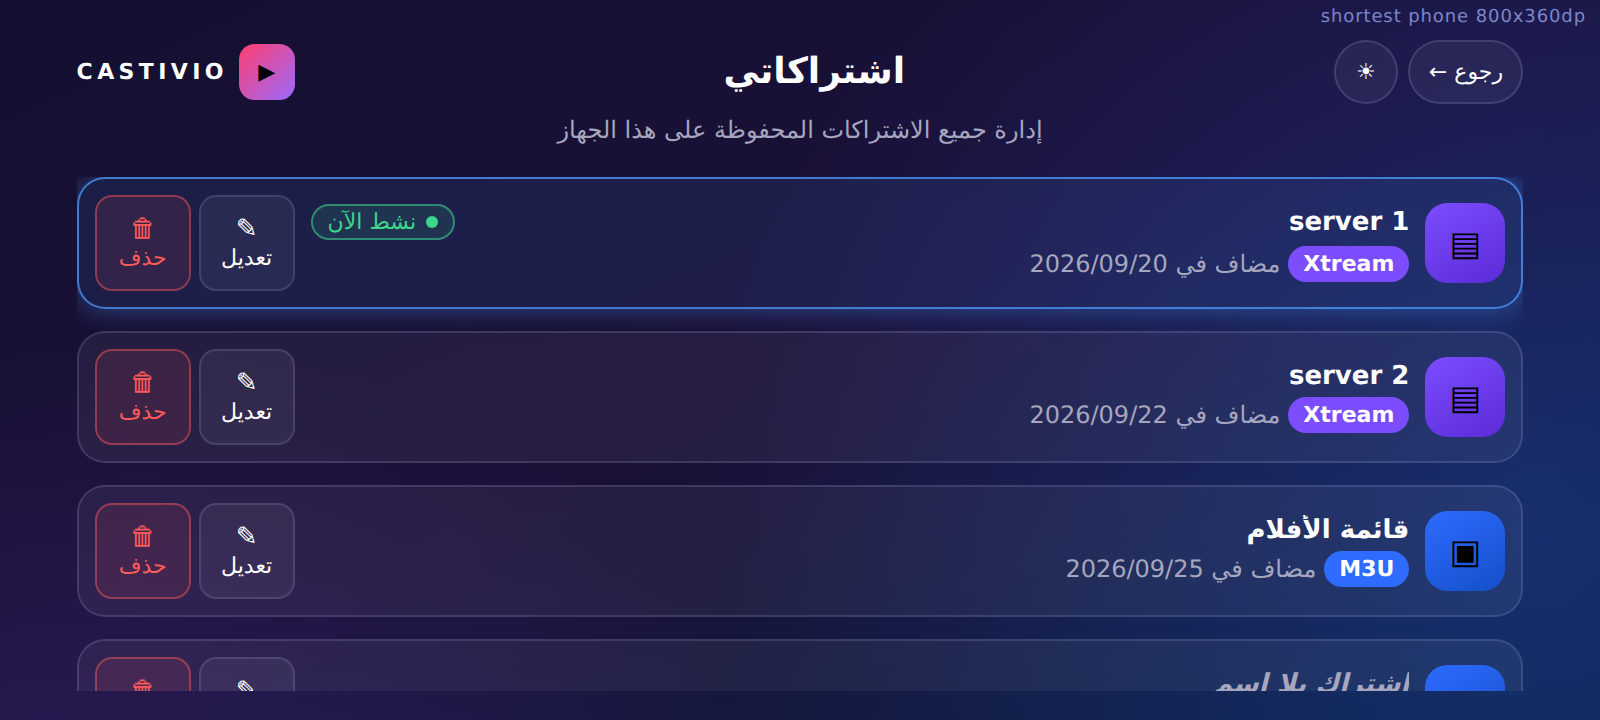
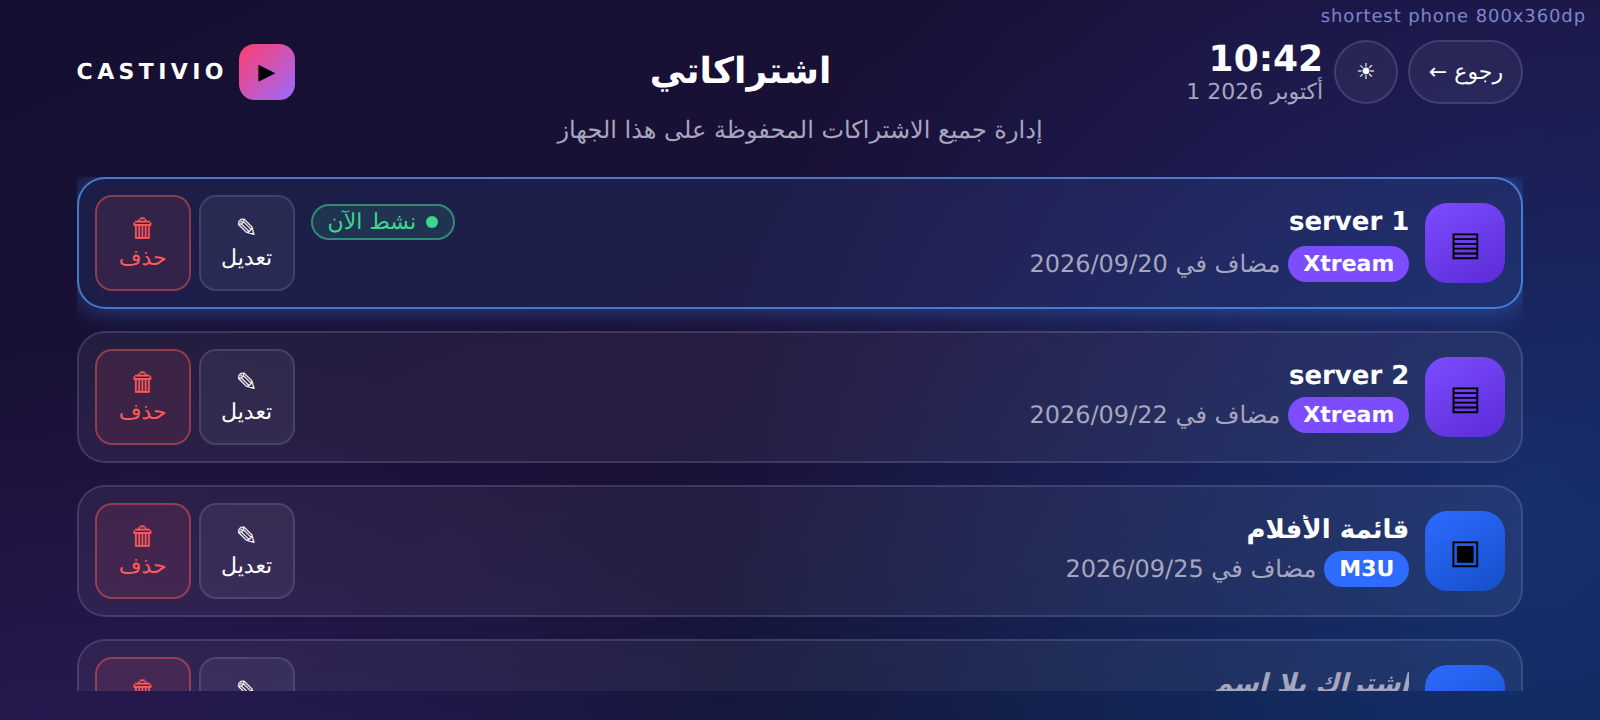
design(activation): the mockups wear the clock the header now carries
Eight assets, re-rendered from their own frames: the time at the title's step with
the date a tier under it, leading the theme control and Back, which keeps the outer
end. Same order the build draws, same two tokens.

A first attempt named the two lines `.ct` and `.cd`, and `.cd` was already the row's
42.58px disc. The date inherited a fixed square, its nowrap text spilled out of it
and the whole line came down across the theme chip and Back — a collision in a
stylesheet, rendering as a layout fault that does not exist in the build. Caught in
its own render, reverted, and redone under names nothing else in the family uses.

Claude-Session: https://claude.ai/code/session_011AJmBREqNiH8exQNKLcMCr

Changed region(s): [[0.75, 0.0611, 0.8438, 0.1528], [0.4062, 0.0611, 0.5625, 0.1222]]

diff --git a/design/mockups/saved-sources-scrim.html b/design/mockups/saved-sources-scrim.html
@@ -29,6 +29,9 @@ body{background:#07060f;padding:14px;display:flex;flex-direction:column;gap:14px
   background:var(--glassLow);color:var(--white);font-size:11px;display:flex;align-items:center;gap:5px}
 .disc{width:32.04px;height:32.04px;border-radius:50%;border:1px solid var(--edge);
   background:var(--glassLow);display:flex;align-items:center;justify-content:center;color:#fff;font-size:11px}
+.hdrClock{display:flex;flex-direction:column;align-items:flex-end;direction:ltr;line-height:1.15;flex:0 0 auto}
+.hdrTime{font-size:18.94px;font-weight:700;color:var(--white);white-space:nowrap}
+.hdrDate{font-size:11px;color:var(--muted);white-space:nowrap}
 .titles{flex:1 1 auto;text-align:center;min-width:0}
 .h1{font-size:18.94px;font-weight:700;color:var(--white);line-height:1.2}
 .brand{display:flex;align-items:center;gap:5.82px;flex:0 0 auto}
@@ -102,7 +105,7 @@ body{background:#07060f;padding:14px;display:flex;flex-direction:column;gap:14px
   <div class="tag">reference phone 873x393dp</div>
   <div class="page">
     <div class="head">
-      <div class="hs"><div class="pill">رجوع&nbsp;←</div><div class="disc">☀</div></div>
+      <div class="hs"><div class="pill">رجوع&nbsp;←</div><div class="disc">☀</div><div class="hdrClock"><div class="hdrTime">10:42</div><div class="hdrDate">1 أكتوبر 2026</div></div></div>
       <div class="titles"><div class="h1">اشتراكاتي</div></div>
       <div class="brand"><div class="bm">▶</div><div class="bn">CASTIVIO</div></div>
     </div>
@@ -134,7 +137,7 @@ body{background:#07060f;padding:14px;display:flex;flex-direction:column;gap:14px
   <div class="glow warm"></div><div class="glow cool"></div>
   <div class="page">
     <div class="head">
-      <div class="hs"><div class="pill">رجوع&nbsp;←</div><div class="disc">☀</div></div>
+      <div class="hs"><div class="pill">رجوع&nbsp;←</div><div class="disc">☀</div><div class="hdrClock"><div class="hdrTime">10:42</div><div class="hdrDate">1 أكتوبر 2026</div></div></div>
       <div class="titles"><div class="h1">اشتراكاتي</div></div>
       <div class="brand"><div class="bm">▶</div><div class="bn">CASTIVIO</div></div>
     </div>
@@ -166,7 +169,7 @@ body{background:#07060f;padding:14px;display:flex;flex-direction:column;gap:14px
   <div class="glow warm"></div><div class="glow cool"></div>
   <div class="page">
     <div class="head">
-      <div class="hs"><div class="pill">رجوع&nbsp;←</div><div class="disc">☀</div></div>
+      <div class="hs"><div class="pill">رجوع&nbsp;←</div><div class="disc">☀</div><div class="hdrClock"><div class="hdrTime">10:42</div><div class="hdrDate">1 أكتوبر 2026</div></div></div>
       <div class="titles"><div class="h1">اشتراكاتي</div></div>
       <div class="brand"><div class="bm">▶</div><div class="bn">CASTIVIO</div></div>
     </div>

diff --git a/design/mockups/saved-sources-rename-keyboard.html b/design/mockups/saved-sources-rename-keyboard.html
@@ -27,6 +27,9 @@ body{background:#000}
   background:var(--glassLow);color:var(--white);font-size:11px;display:flex;align-items:center;gap:5px}
 .disc{width:32.04px;height:32.04px;border-radius:50%;border:1px solid var(--edge);
   background:var(--glassLow);display:flex;align-items:center;justify-content:center;color:#fff;font-size:11px}
+.hdrClock{display:flex;flex-direction:column;align-items:flex-end;direction:ltr;line-height:1.15;flex:0 0 auto}
+.hdrTime{font-size:18.94px;font-weight:700;color:var(--white);white-space:nowrap}
+.hdrDate{font-size:11px;color:var(--muted);white-space:nowrap}
 .titles{flex:1 1 auto;text-align:center;min-width:0}
 .h1{font-size:18.94px;font-weight:700;color:var(--white);line-height:1.2}
 .brand{display:flex;align-items:center;gap:5.82px;flex:0 0 auto}
@@ -122,7 +125,7 @@ body{background:#000}
   <div class="tag">reference phone 873x393dp — تعديل الاسم، والكيبورد مفتوح</div>
   <div class="page">
     <div class="head">
-      <div class="hs"><div class="pill">رجوع&nbsp;←</div><div class="disc">☀</div></div>
+      <div class="hs"><div class="pill">رجوع&nbsp;←</div><div class="disc">☀</div><div class="hdrClock"><div class="hdrTime">10:42</div><div class="hdrDate">1 أكتوبر 2026</div></div></div>
       <div class="titles"><div class="h1">اشتراكاتي</div></div>
       <div class="brand"><div class="bm">▶</div><div class="bn">CASTIVIO</div></div>
     </div>

diff --git a/design/mockups/saved-sources-rename.html b/design/mockups/saved-sources-rename.html
@@ -27,6 +27,9 @@ body{background:#000}
   background:var(--glassLow);color:var(--white);font-size:12.98px;display:flex;align-items:center;gap:5px}
 .disc{width:44.03px;height:44.03px;border-radius:50%;border:1px solid var(--edge);
   background:var(--glassLow);display:flex;align-items:center;justify-content:center;color:#fff;font-size:12.98px}
+.hdrClock{display:flex;flex-direction:column;align-items:flex-end;direction:ltr;line-height:1.15;flex:0 0 auto}
+.hdrTime{font-size:26.03px;font-weight:700;color:var(--white);white-space:nowrap}
+.hdrDate{font-size:12.98px;color:var(--muted);white-space:nowrap}
 .titles{flex:1 1 auto;text-align:center;min-width:0}
 .h1{font-size:26.03px;font-weight:700;color:var(--white);line-height:1.2}
 .brand{display:flex;align-items:center;gap:8.0px;flex:0 0 auto}
@@ -110,7 +113,7 @@ body{background:#000}
   <div class="tag">television 960x540dp — تعديل</div>
   <div class="page">
     <div class="head">
-      <div class="hs"><div class="pill">رجوع&nbsp;←</div><div class="disc">☀</div></div>
+      <div class="hs"><div class="pill">رجوع&nbsp;←</div><div class="disc">☀</div><div class="hdrClock"><div class="hdrTime">10:42</div><div class="hdrDate">1 أكتوبر 2026</div></div></div>
       <div class="titles"><div class="h1">اشتراكاتي</div></div>
       <div class="brand"><div class="bm">▶</div><div class="bn">CASTIVIO</div></div>
     </div>

diff --git a/design/mockups/saved-sources-dialog.html b/design/mockups/saved-sources-dialog.html
@@ -27,6 +27,9 @@ body{background:#000}
   background:var(--glassLow);color:var(--white);font-size:12.98px;display:flex;align-items:center;gap:5px}
 .disc{width:44.03px;height:44.03px;border-radius:50%;border:1px solid var(--edge);
   background:var(--glassLow);display:flex;align-items:center;justify-content:center;color:#fff;font-size:12.98px}
+.hdrClock{display:flex;flex-direction:column;align-items:flex-end;direction:ltr;line-height:1.15;flex:0 0 auto}
+.hdrTime{font-size:26.03px;font-weight:700;color:var(--white);white-space:nowrap}
+.hdrDate{font-size:12.98px;color:var(--muted);white-space:nowrap}
 .titles{flex:1 1 auto;text-align:center;min-width:0}
 .h1{font-size:26.03px;font-weight:700;color:var(--white);line-height:1.2}
 .brand{display:flex;align-items:center;gap:8.0px;flex:0 0 auto}
@@ -110,7 +113,7 @@ body{background:#000}
   <div class="tag">television 960x540dp — حذف</div>
   <div class="page">
     <div class="head">
-      <div class="hs"><div class="pill">رجوع&nbsp;←</div><div class="disc">☀</div></div>
+      <div class="hs"><div class="pill">رجوع&nbsp;←</div><div class="disc">☀</div><div class="hdrClock"><div class="hdrTime">10:42</div><div class="hdrDate">1 أكتوبر 2026</div></div></div>
       <div class="titles"><div class="h1">اشتراكاتي</div></div>
       <div class="brand"><div class="bm">▶</div><div class="bn">CASTIVIO</div></div>
     </div>

diff --git a/design/mockups/saved-sources-tv.html b/design/mockups/saved-sources-tv.html
@@ -27,6 +27,9 @@ body{background:#000}
   background:var(--glassLow);color:var(--white);font-size:12.98px;display:flex;align-items:center;gap:5px}
 .disc{width:44.03px;height:44.03px;border-radius:50%;border:1px solid var(--edge);
   background:var(--glassLow);display:flex;align-items:center;justify-content:center;color:#fff;font-size:12.98px}
+.hdrClock{display:flex;flex-direction:column;align-items:flex-end;direction:ltr;line-height:1.15;flex:0 0 auto}
+.hdrTime{font-size:26.03px;font-weight:700;color:var(--white);white-space:nowrap}
+.hdrDate{font-size:12.98px;color:var(--muted);white-space:nowrap}
 .titles{flex:1 1 auto;text-align:center;min-width:0}
 .h1{font-size:26.03px;font-weight:700;color:var(--white);line-height:1.2}
 .brand{display:flex;align-items:center;gap:8.0px;flex:0 0 auto}
@@ -110,7 +113,7 @@ body{background:#000}
   <div class="tag">television 960x540dp</div>
   <div class="page">
     <div class="head">
-      <div class="hs"><div class="pill">رجوع&nbsp;←</div><div class="disc">☀</div></div>
+      <div class="hs"><div class="pill">رجوع&nbsp;←</div><div class="disc">☀</div><div class="hdrClock"><div class="hdrTime">10:42</div><div class="hdrDate">1 أكتوبر 2026</div></div></div>
       <div class="titles"><div class="h1">اشتراكاتي</div></div>
       <div class="brand"><div class="bm">▶</div><div class="bn">CASTIVIO</div></div>
     </div>

diff --git a/design/mockups/saved-sources-phone.html b/design/mockups/saved-sources-phone.html
@@ -27,6 +27,9 @@ body{background:#000}
   background:var(--glassLow);color:var(--white);font-size:11px;display:flex;align-items:center;gap:5px}
 .disc{width:32.04px;height:32.04px;border-radius:50%;border:1px solid var(--edge);
   background:var(--glassLow);display:flex;align-items:center;justify-content:center;color:#fff;font-size:11px}
+.hdrClock{display:flex;flex-direction:column;align-items:flex-end;direction:ltr;line-height:1.15;flex:0 0 auto}
+.hdrTime{font-size:18.94px;font-weight:700;color:var(--white);white-space:nowrap}
+.hdrDate{font-size:11px;color:var(--muted);white-space:nowrap}
 .titles{flex:1 1 auto;text-align:center;min-width:0}
 .h1{font-size:18.94px;font-weight:700;color:var(--white);line-height:1.2}
 .brand{display:flex;align-items:center;gap:5.82px;flex:0 0 auto}
@@ -110,7 +113,7 @@ body{background:#000}
   <div class="tag">reference phone 873x393dp</div>
   <div class="page">
     <div class="head">
-      <div class="hs"><div class="pill">رجوع&nbsp;←</div><div class="disc">☀</div></div>
+      <div class="hs"><div class="pill">رجوع&nbsp;←</div><div class="disc">☀</div><div class="hdrClock"><div class="hdrTime">10:42</div><div class="hdrDate">1 أكتوبر 2026</div></div></div>
       <div class="titles"><div class="h1">اشتراكاتي</div></div>
       <div class="brand"><div class="bm">▶</div><div class="bn">CASTIVIO</div></div>
     </div>

diff --git a/design/mockups/saved-sources-short.html b/design/mockups/saved-sources-short.html
@@ -27,6 +27,9 @@ body{background:#000}
   background:var(--glassLow);color:var(--white);font-size:11px;display:flex;align-items:center;gap:5px}
 .disc{width:32px;height:32px;border-radius:50%;border:1px solid var(--edge);
   background:var(--glassLow);display:flex;align-items:center;justify-content:center;color:#fff;font-size:11px}
+.hdrClock{display:flex;flex-direction:column;align-items:flex-end;direction:ltr;line-height:1.15;flex:0 0 auto}
+.hdrTime{font-size:18px;font-weight:700;color:var(--white);white-space:nowrap}
+.hdrDate{font-size:11px;color:var(--muted);white-space:nowrap}
 .titles{flex:1 1 auto;text-align:center;min-width:0}
 .h1{font-size:18px;font-weight:700;color:var(--white);line-height:1.2}
 .brand{display:flex;align-items:center;gap:5.33px;flex:0 0 auto}
@@ -110,7 +113,7 @@ body{background:#000}
   <div class="tag">shortest phone 800x360dp</div>
   <div class="page">
     <div class="head">
-      <div class="hs"><div class="pill">رجوع&nbsp;←</div><div class="disc">☀</div></div>
+      <div class="hs"><div class="pill">رجوع&nbsp;←</div><div class="disc">☀</div><div class="hdrClock"><div class="hdrTime">10:42</div><div class="hdrDate">1 أكتوبر 2026</div></div></div>
       <div class="titles"><div class="h1">اشتراكاتي</div></div>
       <div class="brand"><div class="bm">▶</div><div class="bn">CASTIVIO</div></div>
     </div>

diff --git a/design/mockups/saved-sources-tablet.html b/design/mockups/saved-sources-tablet.html
@@ -27,6 +27,9 @@ body{background:#000}
   background:var(--glassLow);color:var(--white);font-size:18px;display:flex;align-items:center;gap:5px}
 .disc{width:64px;height:64px;border-radius:50%;border:1px solid var(--edge);
   background:var(--glassLow);display:flex;align-items:center;justify-content:center;color:#fff;font-size:18px}
+.hdrClock{display:flex;flex-direction:column;align-items:flex-end;direction:ltr;line-height:1.15;flex:0 0 auto}
+.hdrTime{font-size:36px;font-weight:700;color:var(--white);white-space:nowrap}
+.hdrDate{font-size:18px;color:var(--muted);white-space:nowrap}
 .titles{flex:1 1 auto;text-align:center;min-width:0}
 .h1{font-size:36px;font-weight:700;color:var(--white);line-height:1.2}
 .brand{display:flex;align-items:center;gap:11.0px;flex:0 0 auto}
@@ -110,7 +113,7 @@ body{background:#000}
   <div class="tag">tablet 1280x800dp</div>
   <div class="page">
     <div class="head">
-      <div class="hs"><div class="pill">رجوع&nbsp;←</div><div class="disc">☀</div></div>
+      <div class="hs"><div class="pill">رجوع&nbsp;←</div><div class="disc">☀</div><div class="hdrClock"><div class="hdrTime">10:42</div><div class="hdrDate">1 أكتوبر 2026</div></div></div>
       <div class="titles"><div class="h1">اشتراكاتي</div></div>
       <div class="brand"><div class="bm">▶</div><div class="bn">CASTIVIO</div></div>
     </div>
